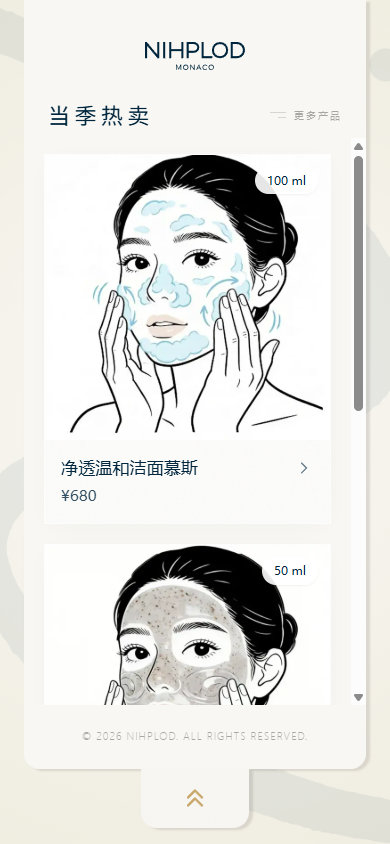
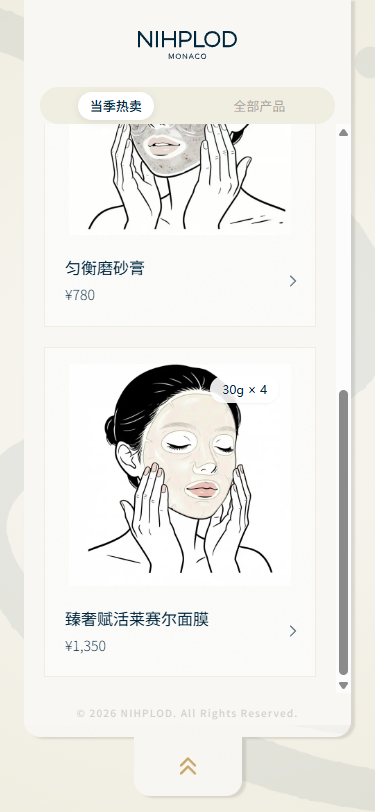
1

diff --git a/src/app/(website)/products/ProductsContent.tsx b/src/app/(website)/products/ProductsContent.tsx
@@ -461,7 +461,7 @@ export function ProductsContent({ categories, products }: ProductsContentProps) 
       </div>
 
       {/* 产品区域 - 手机端卡片布局 */}
-      <div className="flex flex-1 flex-col gap-5 px-5 py-4 overflow-y-auto">
+      <div className="flex flex-1 flex-col gap-5 px-5 py-4 overflow-y-auto scrollbar-hide">
         {(activeTab === 'featured' ? featuredProducts : products).map((product, idx) => (
           <m.div
             key={product.id}
